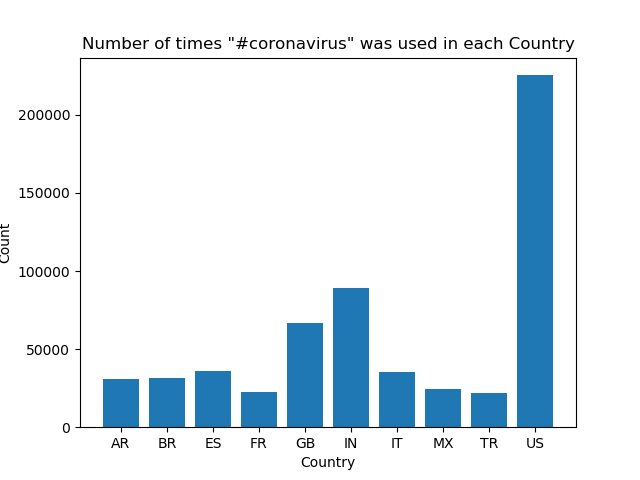
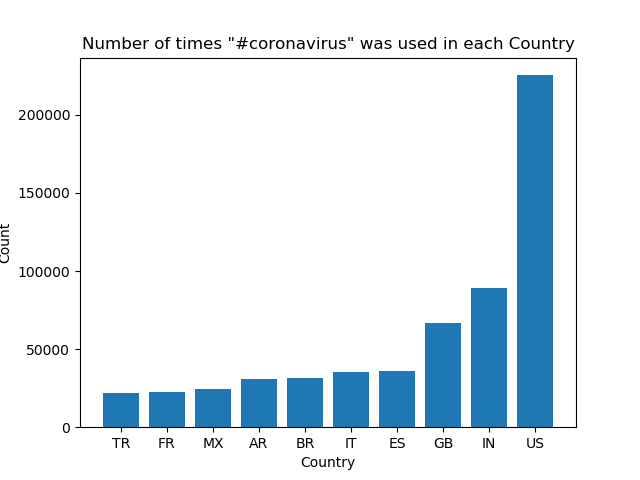
yeah

diff --git a/src/visualize.py b/src/visualize.py
@@ -38,8 +38,10 @@ graphItems = sorted(sorted(counts[args.key].items(), key=lambda item: (item[1],i
         #[:10] returns first ten items
 
 graph_x, graph_y = [*zip(*graphItems)]
-plt.bar(graph_x, sorted(graph_y), data=graphItems)
+plt.bar(range(len(graph_x)), graph_y, data=graphItems)
+plt.xticks(range(len(graph_x)),graph_x)
 
+plt.xticks(range(len(graph_x)), graph_x)
 x_label = "Language" if args.input_path == "reduced.lang" else  "Country" if args.input_path == "reduced.country" else ""
 key = args.key
 title = 'Number of times "' +key+'" was used in each '+x_label
